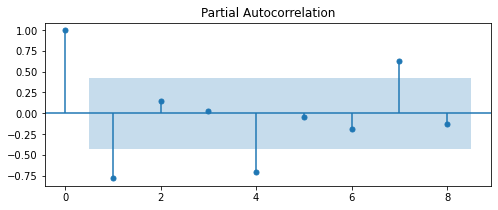
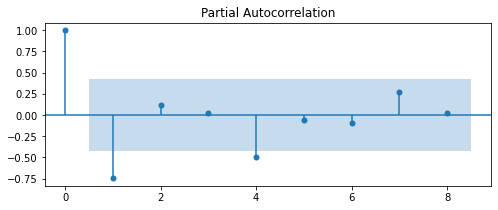
update plot for statsmodels futurewarning

diff --git a/README.md b/README.md
@@ -376,7 +376,7 @@ plot_acf(data_diff,ax=ax, lags=8);
 # Plot the PACF
 from statsmodels.graphics.tsaplots import plot_pacf
 fig, ax = plt.subplots(figsize=(8,3))
-plot_pacf(data_diff,ax=ax, lags=8);
+plot_pacf(data_diff,ax=ax, lags=8, method='ywm');
 ```
 
 
@@ -410,8 +410,8 @@ print(res_arma.summary())
     ==============================================================================
     Dep. Variable:          winning_times   No. Observations:                   21
     Model:                 ARIMA(1, 0, 0)   Log Likelihood                 -20.054
-    Date:                Mon, 22 Aug 2022   AIC                             46.107
-    Time:                        17:08:26   BIC                             49.241
+    Date:                Fri, 03 Mar 2023   AIC                             46.107
+    Time:                        12:34:30   BIC                             49.241
     Sample:                    12-31-1904   HQIC                            46.787
                              - 12-31-1996                                         
     Covariance Type:                  opg                                         
@@ -452,8 +452,8 @@ print(res_arma.summary())
     ==============================================================================
     Dep. Variable:          winning_times   No. Observations:                   21
     Model:                 ARIMA(2, 0, 1)   Log Likelihood                 -19.931
-    Date:                Mon, 22 Aug 2022   AIC                             49.862
-    Time:                        17:08:27   BIC                             55.084
+    Date:                Fri, 03 Mar 2023   AIC                             49.862
+    Time:                        12:34:31   BIC                             55.084
     Sample:                    12-31-1904   HQIC                            50.995
                              - 12-31-1996                                         
     Covariance Type:                  opg                                         
@@ -496,20 +496,20 @@ print(res_arma.summary())
     ==============================================================================
     Dep. Variable:          winning_times   No. Observations:                   21
     Model:                 ARIMA(2, 0, 2)   Log Likelihood                 -16.472
-    Date:                Mon, 22 Aug 2022   AIC                             44.943
-    Time:                        17:08:29   BIC                             51.210
+    Date:                Fri, 03 Mar 2023   AIC                             44.943
+    Time:                        12:34:35   BIC                             51.210
     Sample:                    12-31-1904   HQIC                            46.303
                              - 12-31-1996                                         
     Covariance Type:                  opg                                         
     ==============================================================================
                      coef    std err          z      P>|z|      [0.025      0.975]
     ------------------------------------------------------------------------------
-    const         -0.2717      0.103     -2.629      0.009      -0.474      -0.069
-    ar.L1         -1.7573      0.117    -14.990      0.000      -1.987      -1.528
-    ar.L2         -0.9179      0.120     -7.664      0.000      -1.153      -0.683
-    ma.L1          1.5669     50.157      0.031      0.975     -96.739      99.873
-    ma.L2          0.9986     63.913      0.016      0.988    -124.268     126.265
-    sigma2         0.2126     13.545      0.016      0.987     -26.336      26.761
+    const         -0.2718      0.103     -2.630      0.009      -0.474      -0.069
+    ar.L1         -1.7573      0.117    -14.997      0.000      -1.987      -1.528
+    ar.L2         -0.9180      0.120     -7.667      0.000      -1.153      -0.683
+    ma.L1          1.5669     47.062      0.033      0.973     -90.673      93.807
+    ma.L2          0.9985     59.964      0.017      0.987    -116.529     118.526
+    sigma2         0.2126     12.706      0.017      0.987     -24.691      25.116
     ===================================================================================
     Ljung-Box (L1) (Q):                   0.03   Jarque-Bera (JB):                 0.87
     Prob(Q):                              0.86   Prob(JB):                         0.65
@@ -540,6 +540,13 @@ so ARMA(1,0) seems fine. Note that we have a relatively short time series,
 which can lead to a more difficult model selection process.
 """
 ```
+
+
+
+
+    "\nARMA(1,0), ARMA(2,2) and ARMA(2,1) all seem to have decent fits with significant parameters. \nDepending on whether you pick AIC or BIC as a model selection criterion, \nyour result may vary. In this situation, you'd generally go for a model with fewer parameters, \nso ARMA(1,0) seems fine. Note that we have a relatively short time series, \nwhich can lead to a more difficult model selection process.\n"
+
+
 
 ## Summary 
 
